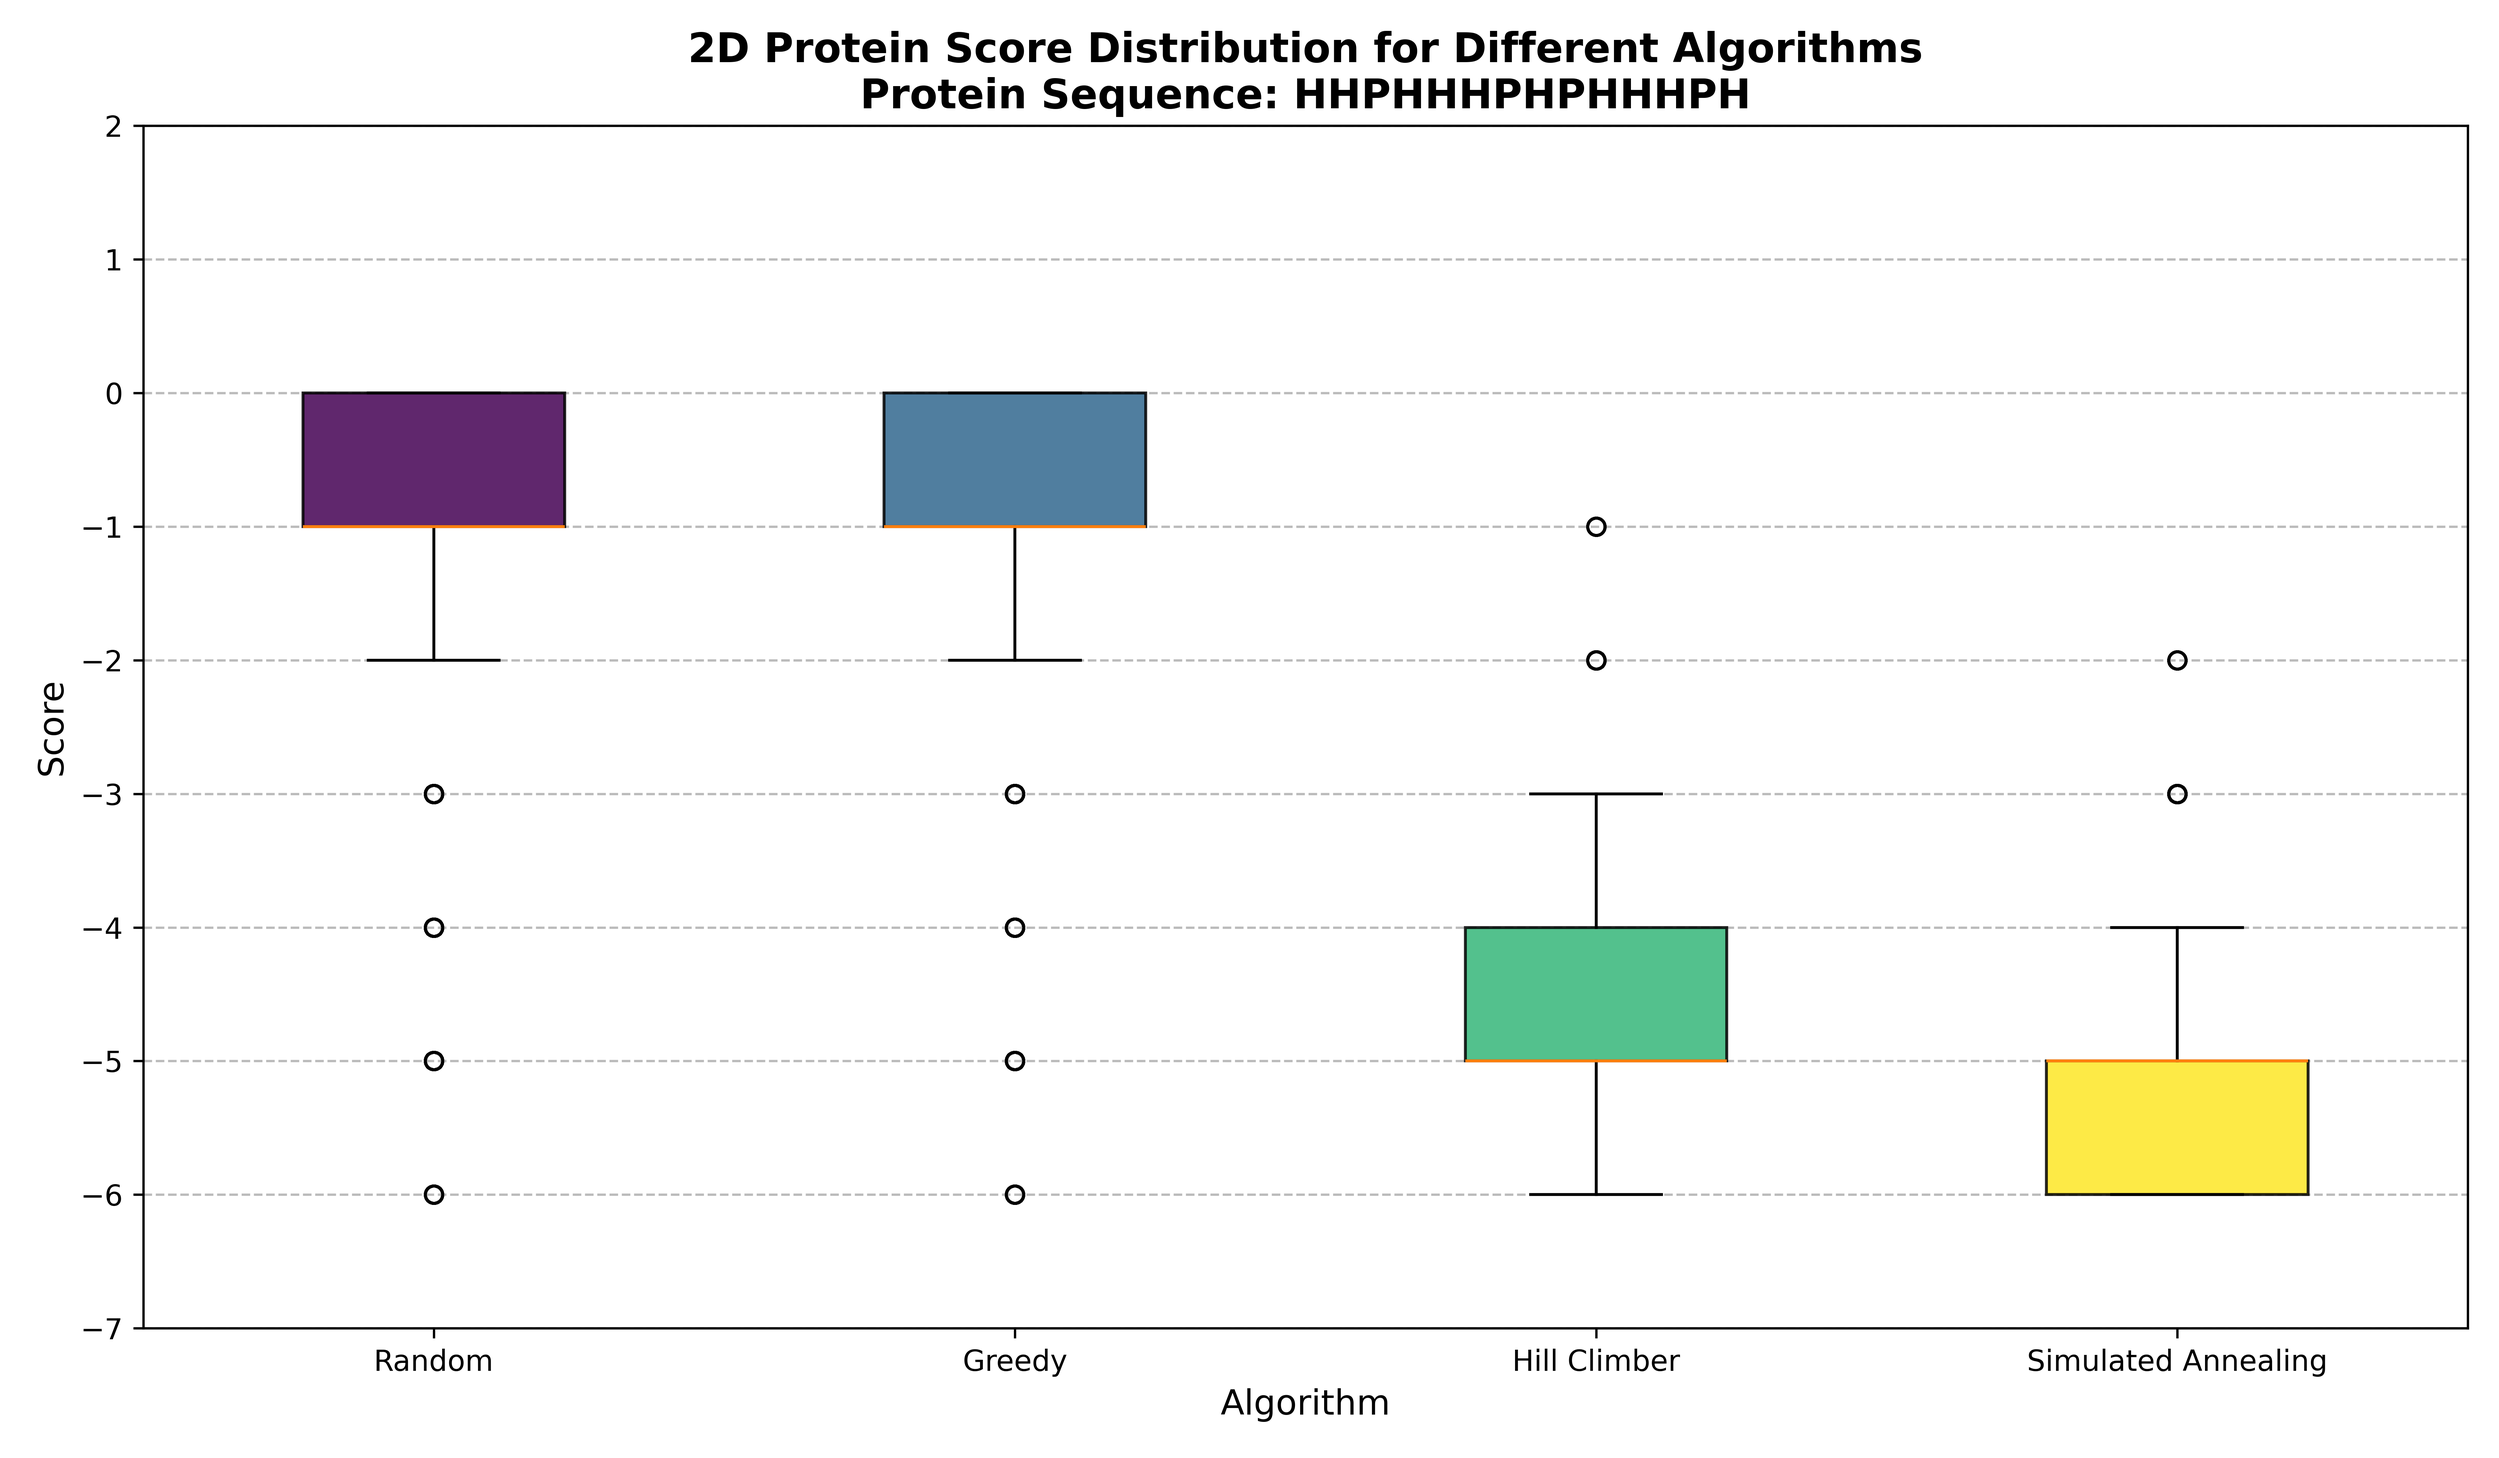
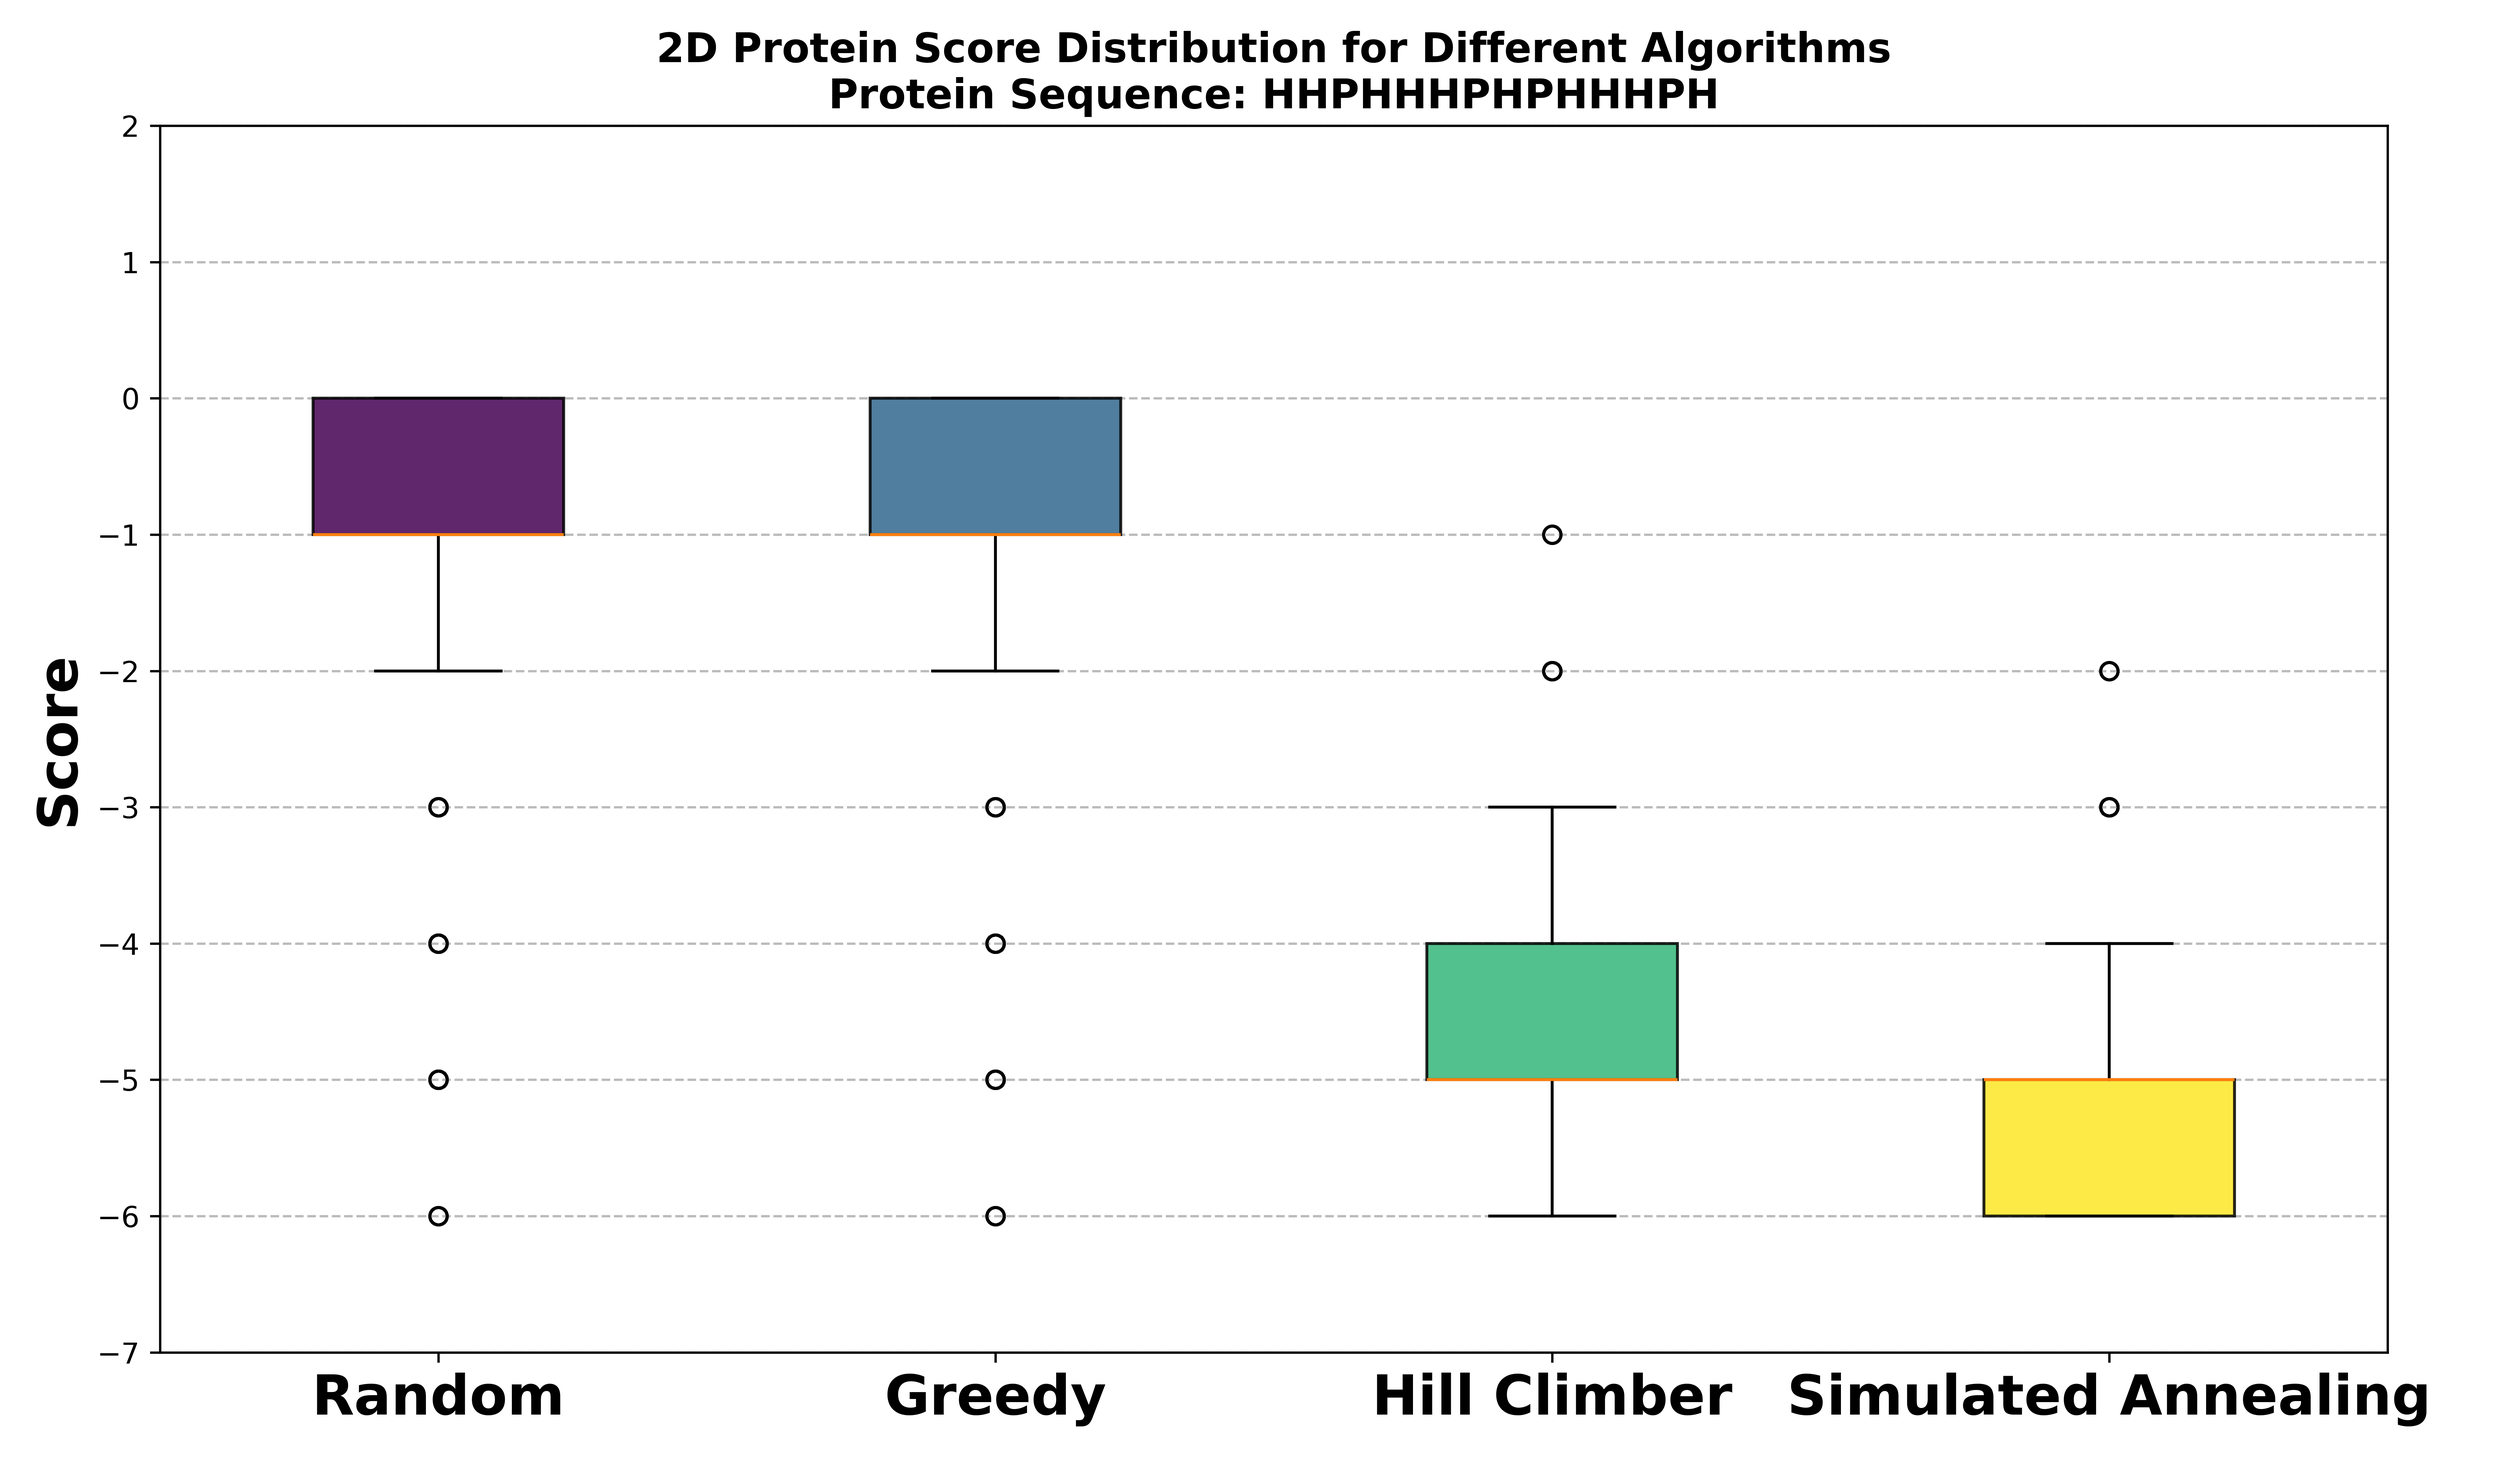
Updated boxplots.

diff --git a/src/visualisation/view_boxplot.py b/src/visualisation/view_boxplot.py
@@ -50,8 +50,8 @@ def boxplot(
 
     title: str = f"{dimension}D Protein Score Distribution for Different Algorithms\nProtein Sequence: {protein_sequence}"
     ax.set_title(title, fontsize = 14, fontweight = "bold")
-    ax.set_xlabel("Algorithm", fontsize = 12)
-    ax.set_ylabel("Score", fontsize = 12)
+    plt.xticks(fontsize = 19, fontweight = "bold")
+    ax.set_ylabel("Score", fontsize = 19, fontweight = "bold")
 
     ax.set_ylim(min_score - 1 , 2)
     ax.grid(axis = "y", linestyle = "--", alpha = 0.85)
